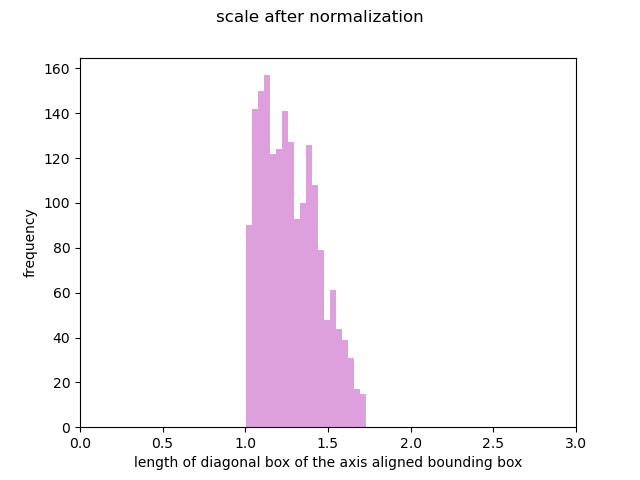
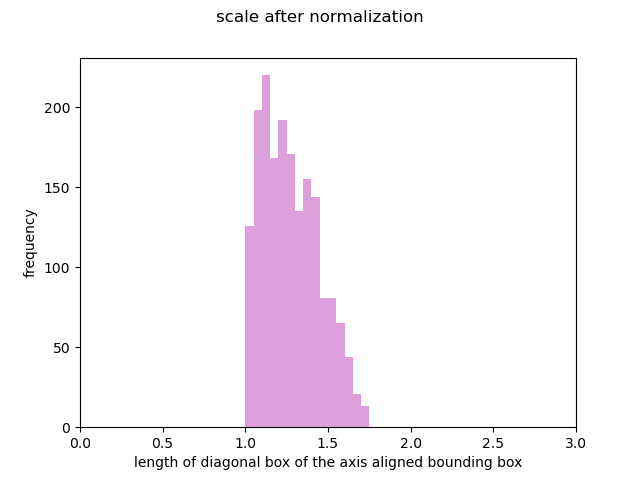
fixed bins in scaling plots

diff --git a/histograms.py b/histograms.py
@@ -83,17 +83,18 @@ fontsize =12
 #plt.show()
 
 #scaling distribution before normalization
-# csv_name ="./csv/Princeton_basic_mesh_info.csv"
-# plt_name = "scale before normalization"
-# df = pd.read_csv(csv_name)
-# plt.hist(df["scale"][df["scale"] < 5], color='plum', bins=20)
-# plt.suptitle(plt_name, fontsize=fontsize)
-# plt.xlim([0, 5])
-# #plt.axis([xmin, xmax, ymin, ymax])
-# plt.ylabel("frequency")
-# plt.xlabel("length of diagonal box of the axis aligned bounding box")
-# plt.savefig("resample_plots/scaling_before")
-# plt.show()
+csv_name ="./csv/Princeton_basic_mesh_info.csv"
+plt_name = "scale before normalization"
+df = pd.read_csv(csv_name)
+plt.hist(df["scale"][df["scale"] < 5], color='plum', bins=np.arange(0, 3, 0.05))
+plt.suptitle(plt_name, fontsize=fontsize)
+plt.xlim([0, 3])
+#plt.ylim([0, 220])
+#plt.axis([xmin, xmax, ymin, ymax])
+plt.ylabel("frequency")
+plt.xlabel("length of diagonal box of the axis aligned bounding box")
+plt.savefig("resample_plots/scaling_before")
+plt.show()
 
 
 

diff --git a/normalised_hist.py b/normalised_hist.py
@@ -80,16 +80,18 @@ from matplotlib import ft2font
 
 
 #scaling distribution after normalization
-# csv_name ="./csv/Princeton_remeshed_normalized_basic_mesh_info.csv"
-# plt_name = "scale after normalization"
-# df = pd.read_csv(csv_name)
-# plt.hist(df["scale"], color='plum', bins=20)
-# plt.xlim([0, 3])
-# plt.suptitle(plt_name, fontsize=fontsize)
-# plt.ylabel("frequency")
-# plt.xlabel("length of diagonal box of the axis aligned bounding box")
-# plt.savefig("resample_plots/scaling_after")
-# plt.show()
+csv_name ="./csv/Princeton_remeshed_normalized_basic_mesh_info.csv"
+plt_name = "scale after normalization"
+df = pd.read_csv(csv_name)
+print(len(df["scale"]))
+plt.hist(df["scale"], color='plum', bins=np.arange(0, 3, 0.05))
+plt.xlim([0, 3])
+#plt.ylim([0, 220])
+plt.suptitle(plt_name, fontsize=fontsize)
+plt.ylabel("frequency")
+plt.xlabel("length of diagonal box of the axis aligned bounding box")
+plt.savefig("resample_plots/scaling_after")
+plt.show()
 
 
 #flipping distribution after normalization
